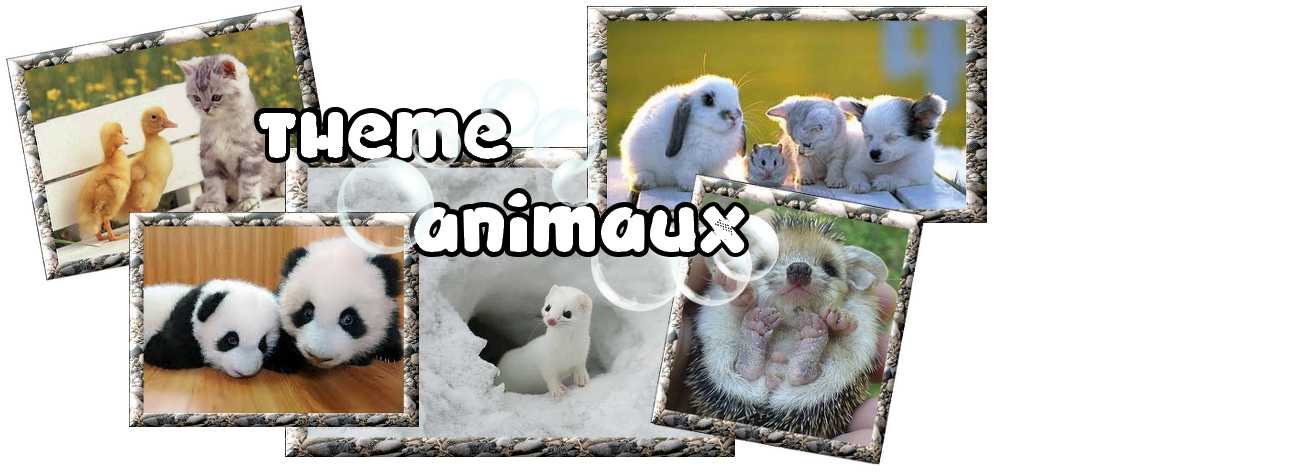
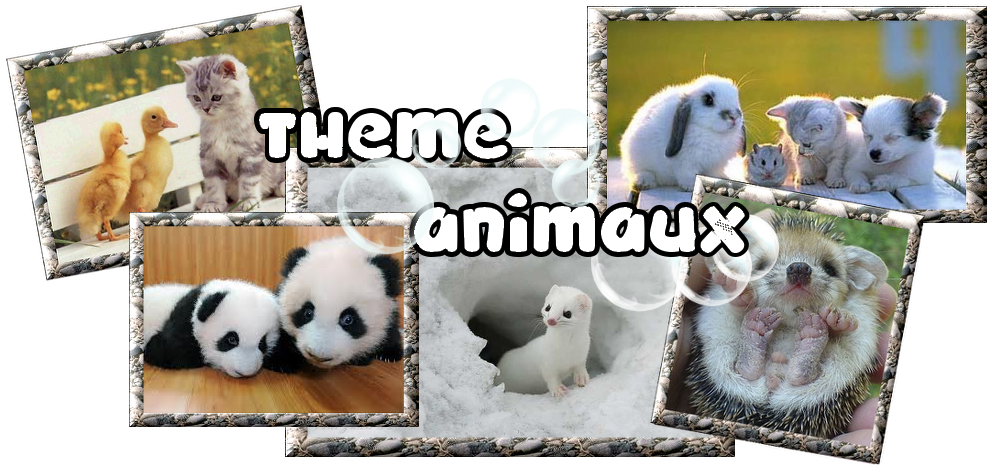
Add new images and CSS

diff --git a/code/css/mangas.css b/code/css/mangas.css
@@ -1,1 +1,106 @@
-plop
+html {
+    background-color: rgb(255, 232, 230);
+}
+
+body {
+    width: 80%;
+    margin: 1% auto 5px auto !important;
+    overflow-x: hidden;
+    height: auto;
+    background: url("../images/bann_cerisiers.png") no-repeat scroll 50% 0% / 100% auto rgb(230, 229, 225) !important;
+    border: 3px solid #3b2939;
+}
+
+header nav {
+    position: absolute;
+    padding: 20px 0px 2px 0px;
+    top: -20px;
+    width: 93%;
+    text-align: center;
+    left: 3.5%;
+    border: 1px solid #000000;
+    border-radius: 16px;
+    background-color: rgb(230, 229, 225);
+    box-shadow: 0px 0px 5px #000000;
+    border-left-style: dotted;
+    border-right-style: dotted;
+}
+
+header nav ul li {
+    display: inline;
+    margin: 3px 50px;
+}
+
+header nav ul li a {
+    color: #000000 !important;
+    font-weight: bold;
+    text-transform: uppercase;
+    text-shadow: none !important;
+}
+
+header + div.container {
+    margin-top: 39%;
+    width: 100%;
+    overflow-x: auto;
+}
+
+div.container {
+    width: 100%;
+}
+
+div.container div {
+    min-width: auto !important;
+}
+
+div.header a {
+    color: #000000 !important;
+    text-shadow: none !important;
+}
+
+h1:first-letter {
+    color: #7a0404;
+}
+
+h1 {
+    text-shadow: 1px 1px 3px;
+}
+
+img {
+    border: 3px solid #3b2939;
+}
+
+h3 {
+    color: #BAB69D !important;
+    text-transform: uppercase;
+    text-shadow: 0px 0px 3px;
+    transition: all 2s ease ;
+    font-size: 20px;
+}
+
+h3:hover {
+    color: #595245 !important;
+    text-shadow: 1px 1px 0px #ffffff;
+}
+
+h2 {
+    color: #BAB69D !important;
+    text-transform: uppercase;
+    text-shadow: 0px 0px 3px;
+    transition: all 2s ease ;
+}
+
+h2:hover {
+    color: #595245 !important;
+    text-shadow: 1px 1px 0px #ffffff;
+}
+
+a[class="button primary"], a[class="button"] {
+    color: #000000 !important;
+    text-shadow: none !important;
+}
+
+a, a:hover {
+    text-decoration: none !important;
+    color: #C75450 !important;
+    text-shadow: 1px 1px 0px #ffffff;
+}

diff --git a/code/css/animaux.css b/code/css/animaux.css
@@ -1,1 +1,93 @@
-plop
+html {
+    background-color: rgb(244, 237, 211);
+}
+
+body {
+    width: 80%;
+    margin: 1% auto 5px auto !important;
+    overflow-x: hidden;
+    height: auto;
+    background: url("../images/bann_animaux.png") no-repeat scroll 50% 0% / 100% auto #E6E5E1 !important;
+    border: 3px solid #3b2939;
+}
+
+header nav {
+    position: absolute;
+    padding: 20px 0px 2px 0px;
+    top: -20px;
+    width: 93%;
+    text-align: center;
+    left: 3.5%;
+    border: 1px solid #000000;
+    border-radius: 16px;
+    background-color: rgb(230, 229, 225);
+    box-shadow: 0px 0px 5px #000000;
+    border-left-style: dotted;
+    border-right-style: dotted;
+}
+
+header nav ul li {
+    display: inline;
+    margin: 3px 50px;
+}
+
+header nav ul li a {
+    color: #000000 !important;
+    font-weight: bold;
+    text-transform: uppercase;
+    text-shadow: none !important;
+}
+
+header + div.container {
+    margin-top: 47%;
+    width: 100%;
+    overflow-x: auto;
+}
+
+div.container {
+    width: 100%;
+}
+
+div.container div {
+    min-width: auto !important;
+}
+
+div.header a {
+    color: #000000 !important;
+    text-shadow: none !important;
+}
+
+h1 {
+    color: #ffffff;
+    text-transform: uppercase;
+    text-shadow: 0px 0px 4px #000, 0px 0px 5px #000000;
+}
+
+img {
+    border: 4px dotted #e6e1c4;
+}
+
+h3 {
+    color: #bfbdbb !important;
+    text-transform: uppercase;
+    text-shadow: 0px 0px 3px;
+    font-size: 20px;
+}
+
+h2 {
+    color: #dac79c !important;
+    text-transform: uppercase;
+    text-shadow: 0px 0px 3px;
+    font-size: 20px;
+}
+
+a[class="button primary"], a[class="button"] {
+    color: #000000 !important;
+    text-shadow: none !important;
+}
+
+a, a:hover {
+    text-decoration: none !important;
+    color: #928e82 !important;
+    text-shadow: 1px 1px 0px #ffffff;
+}
